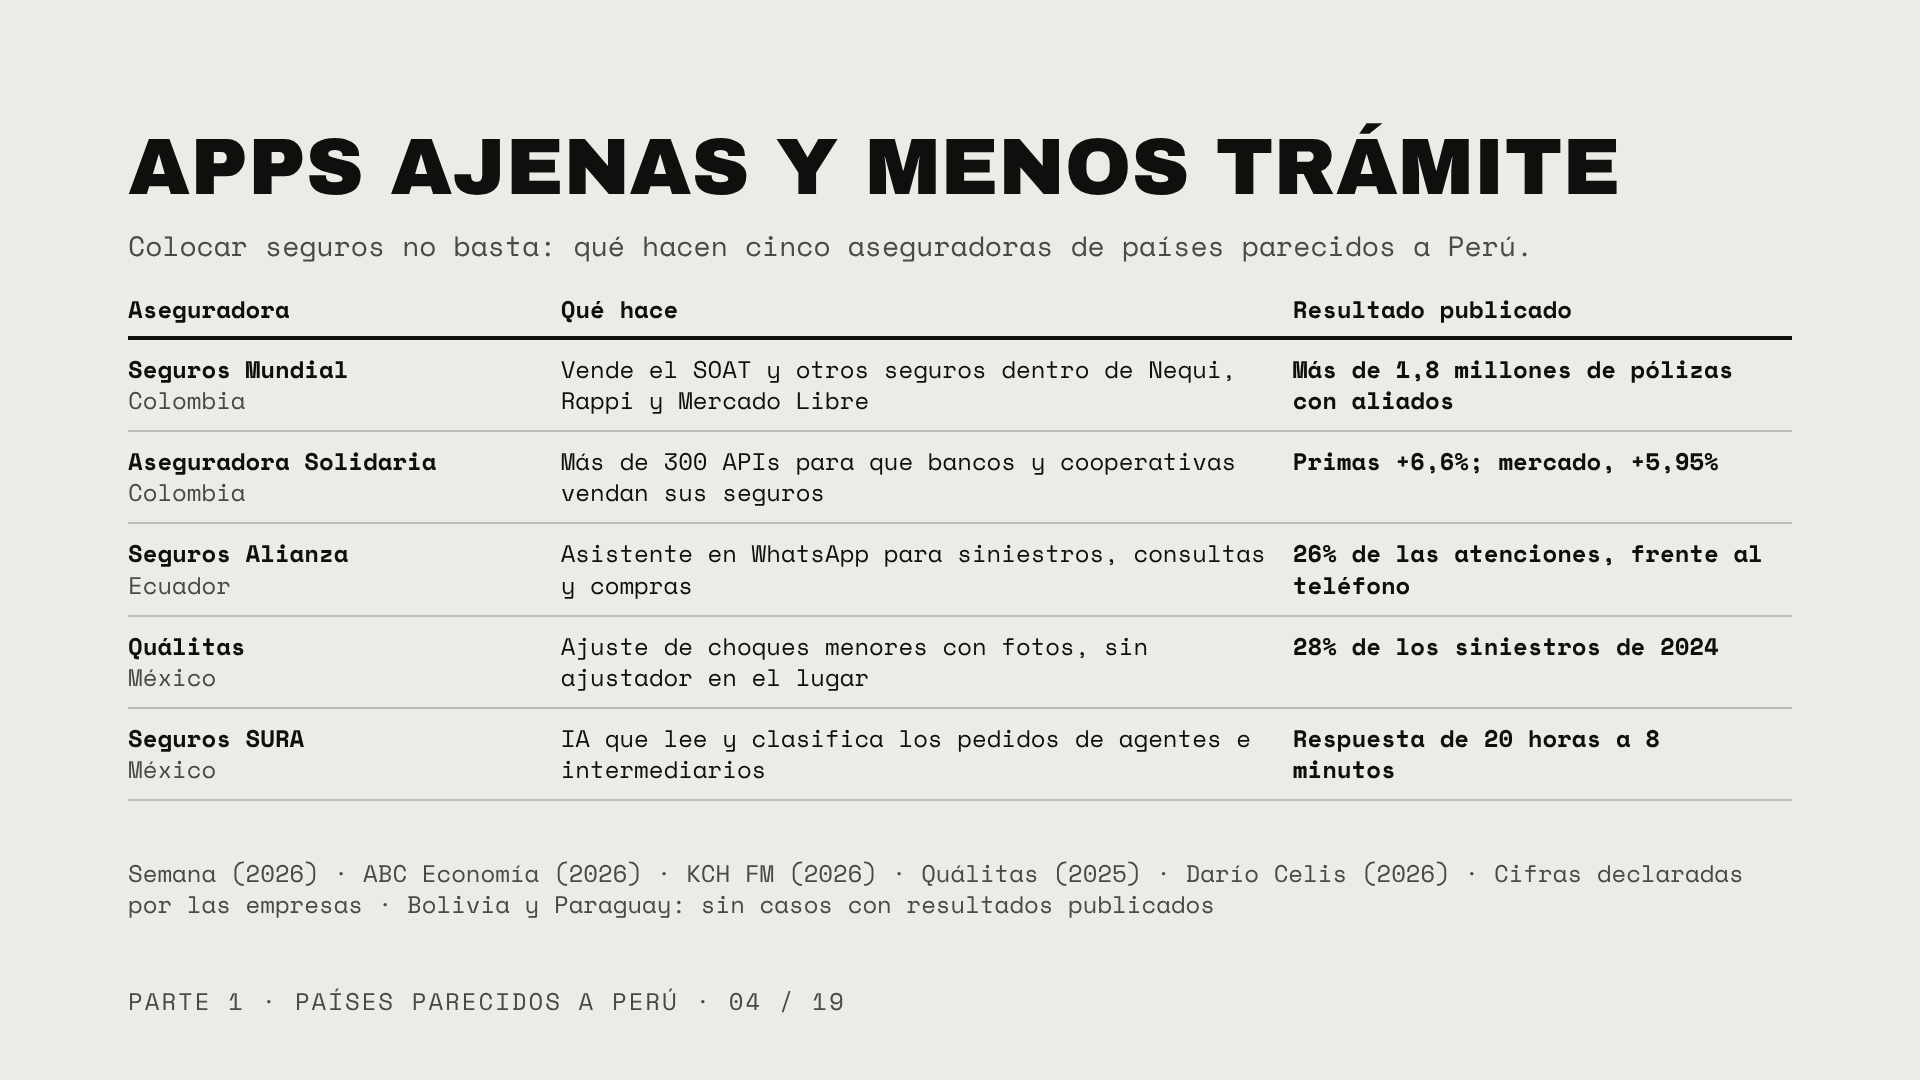
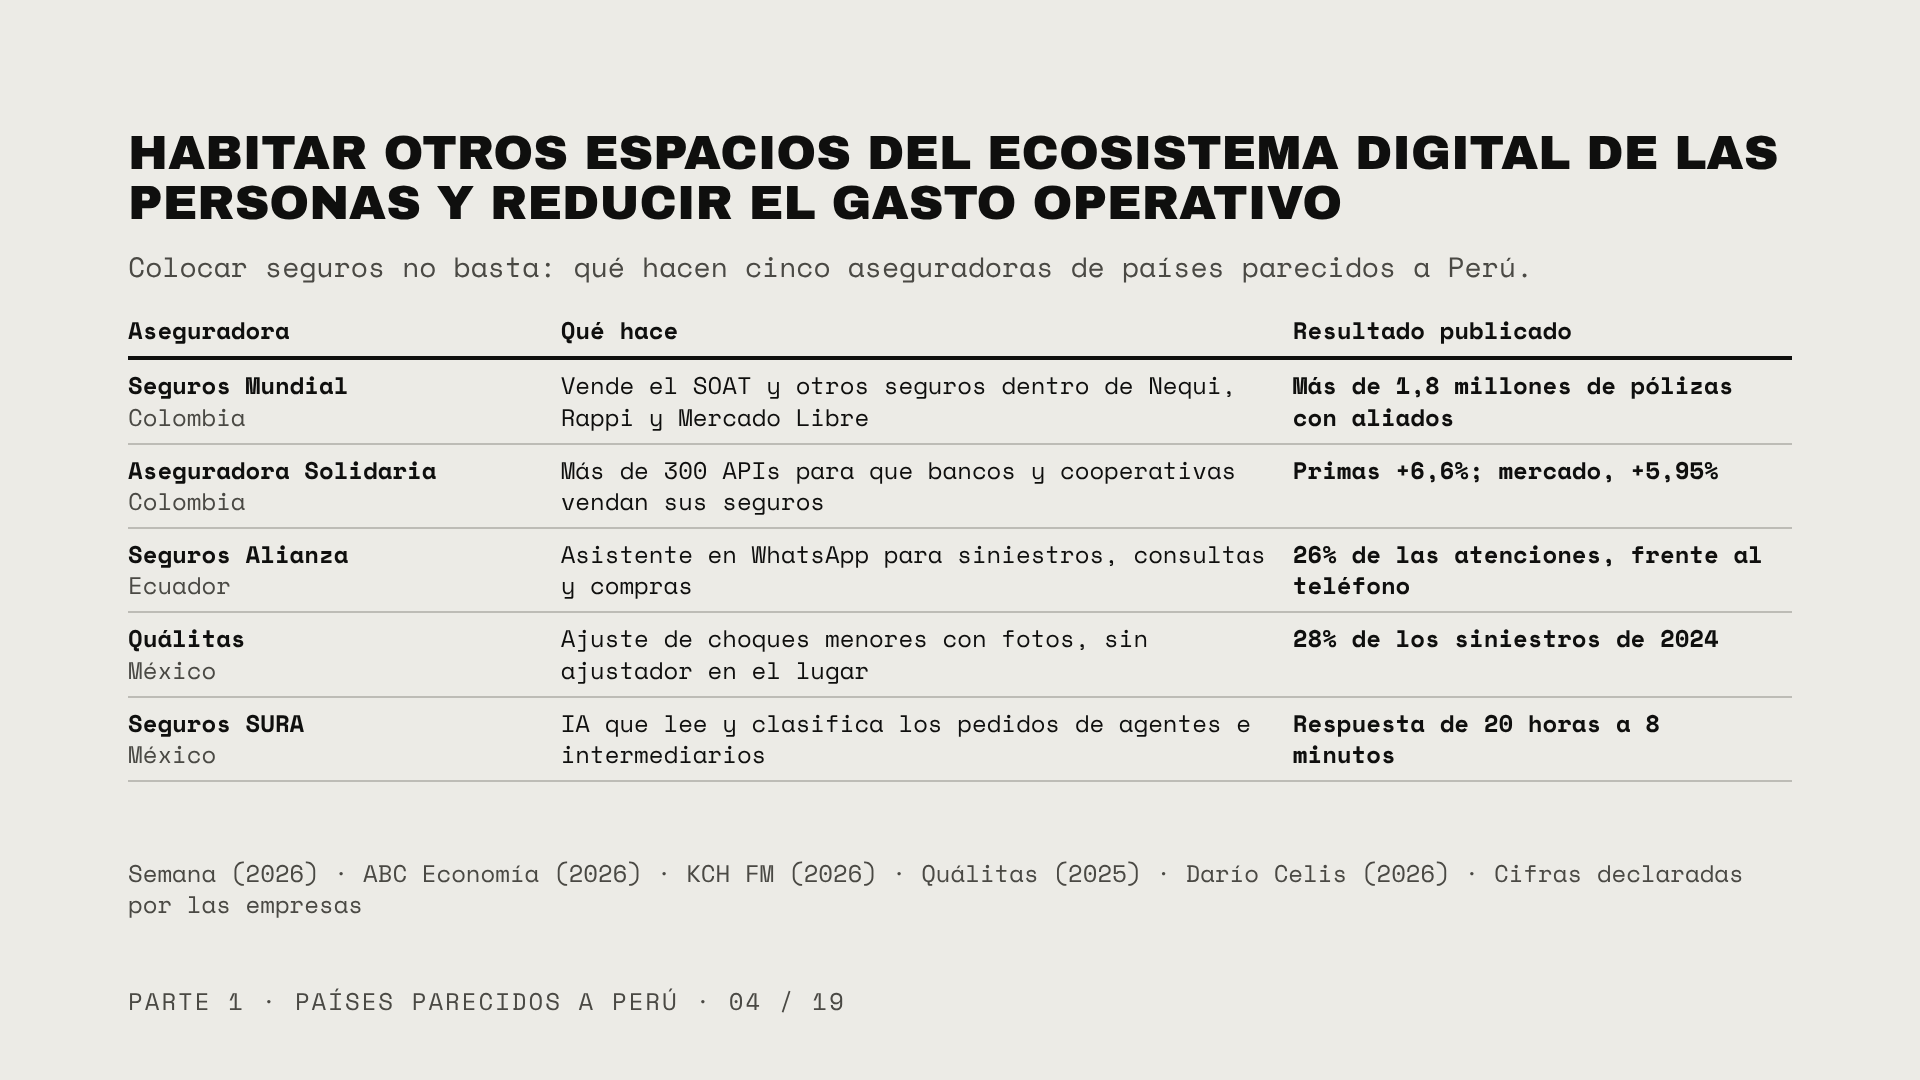
Lámina 4: nuevo título sobre ecosistema digital y gasto operativo
Claude-Session: https://claude.ai/code/session_0172Gzwbb2YLHGW14wEzAdeb

Changed region(s): [[0.0625, 0.1222, 0.9375, 0.5194], [0.0625, 0.55, 0.9375, 0.7333], [0.2188, 0.825, 0.625, 0.8556]]

diff --git a/reports/presentacion-sudamerica/monocromo/seguros-digitales-peru-region.html b/reports/presentacion-sudamerica/monocromo/seguros-digitales-peru-region.html
@@ -203,18 +203,18 @@ section.inv { background: #ECEBE6; color: #0F0F0E; }
 <aside>Qué decir: la segunda mirada es la digitalización financiera. Para cada país, el punto lleno es el porcentaje de adultos que hizo o recibió un pago digital en el último año y el anillo, el que tiene una cuenta en un banco, una financiera o una billetera. Perú está a mitad de tabla: 59,3% tiene cuenta y 51,7% paga en digital. La región va a dos velocidades: Chile, Brasil, Argentina y Uruguay tienen 68% o más de adultos con pagos digitales; Perú, Colombia, Bolivia y Ecuador están entre 43% y 52%. Tener cuenta no es usarla: en Ecuador, 64,5% tiene cuenta pero solo 43,3% paga en digital; en India, 89,0% frente a 48,5%. Perú destaca en dinero móvil: 42,5% de los adultos tiene una cuenta de dinero móvil, el tercer valor entre los países sudamericanos con dato, después de Brasil (58,2%) y Argentina (56,7%); Chile y Uruguay no tienen dato en la edición 2025. Fuente: Banco Mundial (2025), The Global Findex Database 2025, datos de 2024, consultado en api.worldbank.org en noviembre de 2026; indicadores FX.OWN.TOTL.ZS (tiene una cuenta) y g20.any (hizo o recibió un pago digital). Chile y Uruguay: pago digital de 2021, último dato disponible. En seguros, el salto digital es menor: 67% de los peruanos prefiere buscar y cotizar en digital, pero solo 21% compra su póliza en línea (APESEG, 2023); en América Latina la venta en línea era 10% de las ventas de seguros en 2021, y el cliente sigue valorando la asesoría (McKinsey, citado por APESEG, 2021). Lectura nuestra: tener no es usar; si la banca todavía no logra que quien tiene cuenta la use para pagar, al seguro, que se compra menos y se usa menos, le será aún más difícil. Puente: veamos qué hacen las aseguradoras de los países que se parecen a Perú.</aside>
 </section>
 <section id="p1-resumen" class="inv" data-transition="fade">
-<h2 class="t">Apps ajenas y menos trámite</h2>
+<h2 class="t" style="font-size:48px;line-height:1.05">Habitar otros espacios del ecosistema digital de las personas y reducir el gasto operativo</h2>
 <p class="sub">Colocar seguros no basta: qué hacen cinco aseguradoras de países parecidos a Perú.</p>
 <table class="tbl" style="border-collapse:collapse">
 <tr><th style="width:26%;text-align:left;vertical-align:bottom;padding:10px 24px 10px 0;border-bottom:4px solid #0F0F0E;">Aseguradora</th><th style="width:44%;text-align:left;vertical-align:bottom;padding:10px 24px 10px 0;border-bottom:4px solid #0F0F0E;">Qué hace</th><th style="width:30%;text-align:left;vertical-align:bottom;padding:10px 24px 10px 0;border-bottom:4px solid #0F0F0E;">Resultado publicado</th></tr>
-<tr><td style="vertical-align:top;padding:14px 24px 14px 0;border-bottom:2px solid #BDBCB6;"><b>Seguros Mundial</b><br><span style="color:#4A4944">Colombia</span></td><td style="vertical-align:top;padding:14px 24px 14px 0;border-bottom:2px solid #BDBCB6;">Vende el SOAT y otros seguros dentro de Nequi, Rappi y Mercado Libre</td><td style="vertical-align:top;padding:14px 24px 14px 0;border-bottom:2px solid #BDBCB6;"><b>Más de 1,8 millones de pólizas con aliados</b></td></tr>
-<tr><td style="vertical-align:top;padding:14px 24px 14px 0;border-bottom:2px solid #BDBCB6;"><b>Aseguradora Solidaria</b><br><span style="color:#4A4944">Colombia</span></td><td style="vertical-align:top;padding:14px 24px 14px 0;border-bottom:2px solid #BDBCB6;">Más de 300 APIs para que bancos y cooperativas vendan sus seguros</td><td style="vertical-align:top;padding:14px 24px 14px 0;border-bottom:2px solid #BDBCB6;"><b>Primas +6,6%; mercado, +5,95%</b></td></tr>
-<tr><td style="vertical-align:top;padding:14px 24px 14px 0;border-bottom:2px solid #BDBCB6;"><b>Seguros Alianza</b><br><span style="color:#4A4944">Ecuador</span></td><td style="vertical-align:top;padding:14px 24px 14px 0;border-bottom:2px solid #BDBCB6;">Asistente en WhatsApp para siniestros, consultas y compras</td><td style="vertical-align:top;padding:14px 24px 14px 0;border-bottom:2px solid #BDBCB6;"><b>26% de las atenciones, frente al teléfono</b></td></tr>
-<tr><td style="vertical-align:top;padding:14px 24px 14px 0;border-bottom:2px solid #BDBCB6;"><b>Quálitas</b><br><span style="color:#4A4944">México</span></td><td style="vertical-align:top;padding:14px 24px 14px 0;border-bottom:2px solid #BDBCB6;">Ajuste de choques menores con fotos, sin ajustador en el lugar</td><td style="vertical-align:top;padding:14px 24px 14px 0;border-bottom:2px solid #BDBCB6;"><b>28% de los siniestros de 2024</b></td></tr>
-<tr><td style="vertical-align:top;padding:14px 24px 14px 0;border-bottom:2px solid #BDBCB6;"><b>Seguros SURA</b><br><span style="color:#4A4944">México</span></td><td style="vertical-align:top;padding:14px 24px 14px 0;border-bottom:2px solid #BDBCB6;">IA que lee y clasifica los pedidos de agentes e intermediarios</td><td style="vertical-align:top;padding:14px 24px 14px 0;border-bottom:2px solid #BDBCB6;"><b>Respuesta de 20 horas a 8 minutos</b></td></tr>
+<tr><td style="vertical-align:top;padding:10px 24px 10px 0;border-bottom:2px solid #BDBCB6;"><b>Seguros Mundial</b><br><span style="color:#4A4944">Colombia</span></td><td style="vertical-align:top;padding:10px 24px 10px 0;border-bottom:2px solid #BDBCB6;">Vende el SOAT y otros seguros dentro de Nequi, Rappi y Mercado Libre</td><td style="vertical-align:top;padding:10px 24px 10px 0;border-bottom:2px solid #BDBCB6;"><b>Más de 1,8 millones de pólizas con aliados</b></td></tr>
+<tr><td style="vertical-align:top;padding:10px 24px 10px 0;border-bottom:2px solid #BDBCB6;"><b>Aseguradora Solidaria</b><br><span style="color:#4A4944">Colombia</span></td><td style="vertical-align:top;padding:10px 24px 10px 0;border-bottom:2px solid #BDBCB6;">Más de 300 APIs para que bancos y cooperativas vendan sus seguros</td><td style="vertical-align:top;padding:10px 24px 10px 0;border-bottom:2px solid #BDBCB6;"><b>Primas +6,6%; mercado, +5,95%</b></td></tr>
+<tr><td style="vertical-align:top;padding:10px 24px 10px 0;border-bottom:2px solid #BDBCB6;"><b>Seguros Alianza</b><br><span style="color:#4A4944">Ecuador</span></td><td style="vertical-align:top;padding:10px 24px 10px 0;border-bottom:2px solid #BDBCB6;">Asistente en WhatsApp para siniestros, consultas y compras</td><td style="vertical-align:top;padding:10px 24px 10px 0;border-bottom:2px solid #BDBCB6;"><b>26% de las atenciones, frente al teléfono</b></td></tr>
+<tr><td style="vertical-align:top;padding:10px 24px 10px 0;border-bottom:2px solid #BDBCB6;"><b>Quálitas</b><br><span style="color:#4A4944">México</span></td><td style="vertical-align:top;padding:10px 24px 10px 0;border-bottom:2px solid #BDBCB6;">Ajuste de choques menores con fotos, sin ajustador en el lugar</td><td style="vertical-align:top;padding:10px 24px 10px 0;border-bottom:2px solid #BDBCB6;"><b>28% de los siniestros de 2024</b></td></tr>
+<tr><td style="vertical-align:top;padding:10px 24px 10px 0;border-bottom:2px solid #BDBCB6;"><b>Seguros SURA</b><br><span style="color:#4A4944">México</span></td><td style="vertical-align:top;padding:10px 24px 10px 0;border-bottom:2px solid #BDBCB6;">IA que lee y clasifica los pedidos de agentes e intermediarios</td><td style="vertical-align:top;padding:10px 24px 10px 0;border-bottom:2px solid #BDBCB6;"><b>Respuesta de 20 horas a 8 minutos</b></td></tr>
 </table>
 <div class="spacer"></div>
-<p class="src">Semana (2026) · ABC Economía (2026) · KCH FM (2026) · Quálitas (2025) · Darío Celis (2026) · Cifras declaradas por las empresas · Bolivia y Paraguay: sin casos con resultados publicados</p>
+<p class="src">Semana (2026) · ABC Economía (2026) · KCH FM (2026) · Quálitas (2025) · Darío Celis (2026) · Cifras declaradas por las empresas</p>
 <p class="foot">Parte 1 · Países parecidos a Perú · 04 / 19</p>
 <aside>Qué decir: estas son cinco aseguradoras de los países que se parecen a Perú. Las elegimos con tres condiciones: que sean aseguradoras (no billeteras ni bancos), que hagan algo concreto en el front o en el back, y que hayan publicado al menos una cifra de resultado desde 2024. Todas las cifras las declaran las propias empresas. Capturan valor de dos formas: venden en el canal de otro (Seguros Mundial en apps, Solidaria con APIs, Alianza en WhatsApp) y sacan a las personas de los trámites simples (Quálitas en el choque menor, SURA en los pedidos de intermediarios). En Bolivia y Paraguay no encontramos aseguradoras con resultados digitales publicados; en Paraguay, El Sol de Seguros dijo en 2018 que su plataforma para agentes bajó trámites de 24 horas a 15 minutos (Infonegocios, 2018), pero el dato es viejo. Fuentes: Semana (2026), 4 de agosto; ABC Economía (2026), con datos de Fasecolda; KCH FM (2026), comunicado de Seguros Alianza del 25 de febrero; Quálitas (2025), Integrated Annual Report 2024; Darío Celis (2026), 27 de agosto. Puente: primero, el front.</aside>
 </section>

diff --git a/reports/presentacion-sudamerica/monocromo/project/slides/p1-resumen.html b/reports/presentacion-sudamerica/monocromo/project/slides/p1-resumen.html
@@ -1,16 +1,16 @@
 <section id="p1-resumen" class="inv" data-transition="fade">
-<h2 class="t">Apps ajenas y menos trámite</h2>
+<h2 class="t" style="font-size:48px;line-height:1.05">Habitar otros espacios del ecosistema digital de las personas y reducir el gasto operativo</h2>
 <p class="sub">Colocar seguros no basta: qué hacen cinco aseguradoras de países parecidos a Perú.</p>
 <table class="tbl" style="border-collapse:collapse">
 <tr><th style="width:26%;text-align:left;vertical-align:bottom;padding:10px 24px 10px 0;border-bottom:4px solid #0F0F0E;">Aseguradora</th><th style="width:44%;text-align:left;vertical-align:bottom;padding:10px 24px 10px 0;border-bottom:4px solid #0F0F0E;">Qué hace</th><th style="width:30%;text-align:left;vertical-align:bottom;padding:10px 24px 10px 0;border-bottom:4px solid #0F0F0E;">Resultado publicado</th></tr>
-<tr><td style="vertical-align:top;padding:14px 24px 14px 0;border-bottom:2px solid #BDBCB6;"><b>Seguros Mundial</b><br><span style="color:#4A4944">Colombia</span></td><td style="vertical-align:top;padding:14px 24px 14px 0;border-bottom:2px solid #BDBCB6;">Vende el SOAT y otros seguros dentro de Nequi, Rappi y Mercado Libre</td><td style="vertical-align:top;padding:14px 24px 14px 0;border-bottom:2px solid #BDBCB6;"><b>Más de 1,8 millones de pólizas con aliados</b></td></tr>
-<tr><td style="vertical-align:top;padding:14px 24px 14px 0;border-bottom:2px solid #BDBCB6;"><b>Aseguradora Solidaria</b><br><span style="color:#4A4944">Colombia</span></td><td style="vertical-align:top;padding:14px 24px 14px 0;border-bottom:2px solid #BDBCB6;">Más de 300 APIs para que bancos y cooperativas vendan sus seguros</td><td style="vertical-align:top;padding:14px 24px 14px 0;border-bottom:2px solid #BDBCB6;"><b>Primas +6,6%; mercado, +5,95%</b></td></tr>
-<tr><td style="vertical-align:top;padding:14px 24px 14px 0;border-bottom:2px solid #BDBCB6;"><b>Seguros Alianza</b><br><span style="color:#4A4944">Ecuador</span></td><td style="vertical-align:top;padding:14px 24px 14px 0;border-bottom:2px solid #BDBCB6;">Asistente en WhatsApp para siniestros, consultas y compras</td><td style="vertical-align:top;padding:14px 24px 14px 0;border-bottom:2px solid #BDBCB6;"><b>26% de las atenciones, frente al teléfono</b></td></tr>
-<tr><td style="vertical-align:top;padding:14px 24px 14px 0;border-bottom:2px solid #BDBCB6;"><b>Quálitas</b><br><span style="color:#4A4944">México</span></td><td style="vertical-align:top;padding:14px 24px 14px 0;border-bottom:2px solid #BDBCB6;">Ajuste de choques menores con fotos, sin ajustador en el lugar</td><td style="vertical-align:top;padding:14px 24px 14px 0;border-bottom:2px solid #BDBCB6;"><b>28% de los siniestros de 2024</b></td></tr>
-<tr><td style="vertical-align:top;padding:14px 24px 14px 0;border-bottom:2px solid #BDBCB6;"><b>Seguros SURA</b><br><span style="color:#4A4944">México</span></td><td style="vertical-align:top;padding:14px 24px 14px 0;border-bottom:2px solid #BDBCB6;">IA que lee y clasifica los pedidos de agentes e intermediarios</td><td style="vertical-align:top;padding:14px 24px 14px 0;border-bottom:2px solid #BDBCB6;"><b>Respuesta de 20 horas a 8 minutos</b></td></tr>
+<tr><td style="vertical-align:top;padding:10px 24px 10px 0;border-bottom:2px solid #BDBCB6;"><b>Seguros Mundial</b><br><span style="color:#4A4944">Colombia</span></td><td style="vertical-align:top;padding:10px 24px 10px 0;border-bottom:2px solid #BDBCB6;">Vende el SOAT y otros seguros dentro de Nequi, Rappi y Mercado Libre</td><td style="vertical-align:top;padding:10px 24px 10px 0;border-bottom:2px solid #BDBCB6;"><b>Más de 1,8 millones de pólizas con aliados</b></td></tr>
+<tr><td style="vertical-align:top;padding:10px 24px 10px 0;border-bottom:2px solid #BDBCB6;"><b>Aseguradora Solidaria</b><br><span style="color:#4A4944">Colombia</span></td><td style="vertical-align:top;padding:10px 24px 10px 0;border-bottom:2px solid #BDBCB6;">Más de 300 APIs para que bancos y cooperativas vendan sus seguros</td><td style="vertical-align:top;padding:10px 24px 10px 0;border-bottom:2px solid #BDBCB6;"><b>Primas +6,6%; mercado, +5,95%</b></td></tr>
+<tr><td style="vertical-align:top;padding:10px 24px 10px 0;border-bottom:2px solid #BDBCB6;"><b>Seguros Alianza</b><br><span style="color:#4A4944">Ecuador</span></td><td style="vertical-align:top;padding:10px 24px 10px 0;border-bottom:2px solid #BDBCB6;">Asistente en WhatsApp para siniestros, consultas y compras</td><td style="vertical-align:top;padding:10px 24px 10px 0;border-bottom:2px solid #BDBCB6;"><b>26% de las atenciones, frente al teléfono</b></td></tr>
+<tr><td style="vertical-align:top;padding:10px 24px 10px 0;border-bottom:2px solid #BDBCB6;"><b>Quálitas</b><br><span style="color:#4A4944">México</span></td><td style="vertical-align:top;padding:10px 24px 10px 0;border-bottom:2px solid #BDBCB6;">Ajuste de choques menores con fotos, sin ajustador en el lugar</td><td style="vertical-align:top;padding:10px 24px 10px 0;border-bottom:2px solid #BDBCB6;"><b>28% de los siniestros de 2024</b></td></tr>
+<tr><td style="vertical-align:top;padding:10px 24px 10px 0;border-bottom:2px solid #BDBCB6;"><b>Seguros SURA</b><br><span style="color:#4A4944">México</span></td><td style="vertical-align:top;padding:10px 24px 10px 0;border-bottom:2px solid #BDBCB6;">IA que lee y clasifica los pedidos de agentes e intermediarios</td><td style="vertical-align:top;padding:10px 24px 10px 0;border-bottom:2px solid #BDBCB6;"><b>Respuesta de 20 horas a 8 minutos</b></td></tr>
 </table>
 <div class="spacer"></div>
-<p class="src">Semana (2026) · ABC Economía (2026) · KCH FM (2026) · Quálitas (2025) · Darío Celis (2026) · Cifras declaradas por las empresas · Bolivia y Paraguay: sin casos con resultados publicados</p>
+<p class="src">Semana (2026) · ABC Economía (2026) · KCH FM (2026) · Quálitas (2025) · Darío Celis (2026) · Cifras declaradas por las empresas</p>
 <p class="foot">Parte 1 · Países parecidos a Perú · 04 / 19</p>
 <aside>Qué decir: estas son cinco aseguradoras de los países que se parecen a Perú. Las elegimos con tres condiciones: que sean aseguradoras (no billeteras ni bancos), que hagan algo concreto en el front o en el back, y que hayan publicado al menos una cifra de resultado desde 2024. Todas las cifras las declaran las propias empresas. Capturan valor de dos formas: venden en el canal de otro (Seguros Mundial en apps, Solidaria con APIs, Alianza en WhatsApp) y sacan a las personas de los trámites simples (Quálitas en el choque menor, SURA en los pedidos de intermediarios). En Bolivia y Paraguay no encontramos aseguradoras con resultados digitales publicados; en Paraguay, El Sol de Seguros dijo en 2018 que su plataforma para agentes bajó trámites de 24 horas a 15 minutos (Infonegocios, 2018), pero el dato es viejo. Fuentes: Semana (2026), 4 de agosto; ABC Economía (2026), con datos de Fasecolda; KCH FM (2026), comunicado de Seguros Alianza del 25 de febrero; Quálitas (2025), Integrated Annual Report 2024; Darío Celis (2026), 27 de agosto. Puente: primero, el front.</aside>
 </section>
